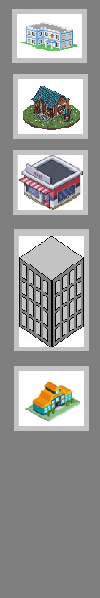
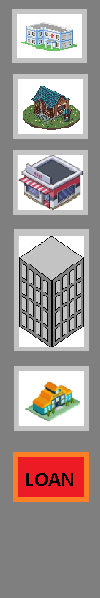
debt

Changed region(s): [[0.12, 0.7525, 0.9, 0.8428]]

diff --git a/money.java b/money.java
@@ -12,6 +12,28 @@ public class money
     public static String disclamer = "";
     private int lastMoney;
     private CityMap map;
+    private ArrayList<Loan> loans;
+    /**
+     * loan class
+    */
+    private class Loan {
+        private int payment;
+        private int timeRemaining;
+        Loan(int p, int t) {
+            this.payment = p;
+            this.timeRemaining = t;
+        }
+        public int getPayment() {
+            return this.payment;
+        }
+        public int getTimeRemaining() {
+            return this.timeRemaining;
+        }
+        public void payOff() {
+            this.timeRemaining--;
+        }
+    }
+   
     /**
      * Constructor for objects of class money
      */
@@ -21,6 +43,7 @@ public class money
         moneyGained = g;
         map = mm;
         lastMoney = g;
+        loans = new ArrayList<>();
     }
     
     public int CalcMoney(){
@@ -39,6 +62,16 @@ public class money
         int add = 0;
         for(CityCoordinate key : keys){
             image.add(map.getBlock(key).getImg());
+        }
+        
+        // I don't want to write a custom hash function for loans to use a set
+        for (int i = loans.size()-1; i >= 0; i--) {
+            Loan loan = loans.get(i);
+            subtract(loan.getPayment());
+            loan.payOff();
+            if (loan.getTimeRemaining() <= 0) {
+                loans.remove(i);
+            }
         }
         
         for(String x : image){
@@ -118,5 +151,8 @@ public class money
     }
     public String getDisclamer(){return disclamer;}
     
-    
+    void addLoan(int amount, int payment, int term) {
+        this.add(amount);
+        this.loans.add(new Loan(payment, term));
+    }
 }

diff --git a/HUD.java b/HUD.java
@@ -38,7 +38,7 @@ public class HUD extends Actor
             x = m.getX();
             y = m.getY();
             
-            if(x > 17 && x < 82 && y > 14 && y < 58){
+            if(x > 18 && x < 82 && y > 14 && y < 58){
                 // select hospital
                 selected = "hospital";
             }
@@ -57,6 +57,9 @@ public class HUD extends Actor
             if(x > 18 && x < 82 && y > 370 && y < 426){
                 //select school
                 selected = "school";
+            }
+            if(x > 18 && x < 82 && y > 452 && y < 502){
+                money.addLoan(100, 10, 15);
             }
             if (selected != null && x > 100) {
                 CityCoordinate cityCoordinate = renderer.screenToCity(new ScreenCoordinate(x, y));
